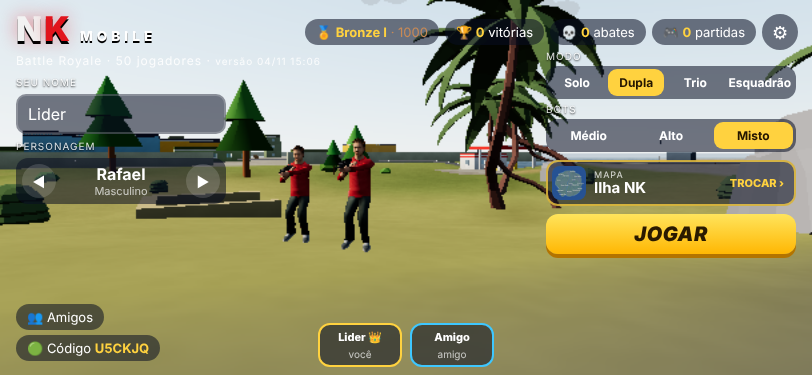
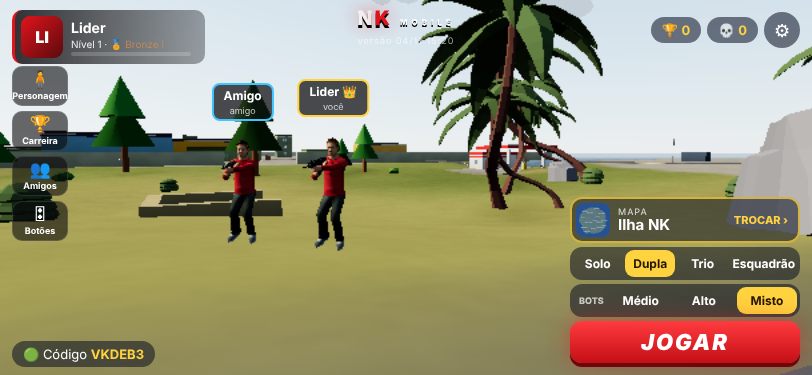
Lobby no formato battle royale: cartão do jogador com nível, esquadrão com nomes, JOGAR à direita, atalhos e painéis de Personagem e Carreira
Claude-Session: https://claude.ai/code/session_01SsXJjxVDH4xiDTBBbbNyde

diff --git a/nk-mobile/index.html b/nk-mobile/index.html
@@ -173,7 +173,10 @@ input,select{font:inherit;touch-action:auto;user-select:text;-webkit-user-select
 #menuP input[type=range]{flex:1;max-width:200px}
 #menuP select{background:#0f1430;color:#fff;border-radius:8px;padding:4px 8px;border:1px solid #445}
 .row{display:flex;gap:10px;justify-content:center;margin-top:8px;flex-wrap:wrap}
-#frP,#invP{display:flex;align-items:center;justify-content:center;z-index:35}
+#frP,#invP,#chrP,#carP{display:flex;align-items:center;justify-content:center;z-index:35}
+#chrP .box,#carP .box{background:#16161c;border:1px solid rgba(225,20,28,.35);border-radius:16px;padding:14px 18px;width:min(440px,92vw);display:flex;flex-direction:column;gap:8px;max-height:92vh;overflow:auto}
+#carP .box.car{width:min(600px,94vw)}
+#chrP input{background:#0f0f14;color:#fff;border:1px solid #444;border-radius:10px;padding:9px 10px}
 #frP .box,#invP .box{background:#1d2450;border-radius:16px;padding:14px 18px;width:min(440px,92vw);display:flex;flex-direction:column;gap:8px;max-height:92vh}
 #frP .box.wide{width:min(560px,94vw)}
 #frP input{flex:1;background:#0f1430;color:#fff;border:1px solid #445;border-radius:10px;padding:9px 10px;text-transform:uppercase}
@@ -240,6 +243,29 @@ input,select{font:inherit;touch-action:auto;user-select:text;-webkit-user-select
 #airI b{font-size:17px;color:#fff}#airI small{font-size:9px;letter-spacing:1px;color:var(--y);font-weight:800}
 #airI .ab{width:6px;background:rgba(255,255,255,.18);border-radius:3px;position:relative;overflow:hidden}#airI .ab i{position:absolute;bottom:0;left:0;right:0;background:linear-gradient(#7fd3ff,#3ec7ff)}
 #joy.lock{border-color:var(--y)}#joy.lock::after{content:'🔒 CORRENDO';position:absolute;top:-22px;left:50%;transform:translateX(-50%);font-size:10px;font-weight:800;color:var(--y);white-space:nowrap;text-shadow:0 1px 2px #000}
+
+/* ---------- lobby estilo battle royale (identidade NK: preto e vermelho) ---------- */
+.lb-card{position:absolute;top:10px;left:calc(12px + var(--sl));display:flex;align-items:center;gap:8px;background:linear-gradient(90deg,rgba(10,10,12,.82),rgba(10,10,12,.35));border-left:3px solid #e1141c;border-radius:10px;padding:6px 14px 6px 6px;cursor:pointer}
+.lb-av{width:42px;height:42px;border-radius:9px;background:linear-gradient(135deg,#e1141c,#5a0a0d);display:flex;align-items:center;justify-content:center;font-weight:1000;font-size:16px}
+.lb-ci{display:flex;flex-direction:column;gap:2px;min-width:120px}.lb-ci b{font-size:14px}.lb-ci small{font-size:10px;opacity:.9}
+.lb-xp{height:4px;background:rgba(255,255,255,.18);border-radius:2px;overflow:hidden}.lb-xp i{display:block;height:100%;background:var(--y)}
+.lb-logo{position:absolute;top:8px;left:50%;transform:translateX(-50%);text-align:center;pointer-events:none}.lb-logo .logo{font-size:26px;line-height:1}.lb-logo small{font-size:9px;opacity:.6;letter-spacing:1px}
+.lb-stats{position:absolute;top:12px;right:calc(12px + var(--sr));display:flex;gap:6px;align-items:center}
+.lb-side{position:absolute;left:calc(12px + var(--sl));top:76px;display:flex;flex-direction:column;gap:8px}
+.lb-ic{width:62px;display:flex;flex-direction:column;align-items:center;gap:2px;background:rgba(10,10,12,.6);border-radius:10px;padding:6px 2px;color:#fff;border:1px solid rgba(255,255,255,.12)}
+.lb-ic span{font-size:20px;line-height:1}.lb-ic small{font-size:9px;font-weight:700;white-space:nowrap}
+.lb-play{position:absolute;right:calc(12px + var(--sr));bottom:12px;width:250px;display:flex;flex-direction:column;gap:6px}
+.lb-play .btn.play{margin:0;background:linear-gradient(180deg,#ff3b3f,#c40f16);color:#fff;box-shadow:0 4px 0 #6d070b,0 0 22px rgba(225,20,28,.45);font-size:28px;letter-spacing:2px;order:9}
+.seg.sm button{padding:6px 2px;font-size:12px}.seg .segl{font-size:9px;font-weight:800;opacity:.7;align-self:center;padding:0 4px 0 6px}
+#lTags{position:absolute;inset:0;pointer-events:none}
+.ltag{position:absolute;transform:translate(-50%,-100%);display:flex;flex-direction:column;align-items:center;gap:2px;background:rgba(10,10,12,.72);border-radius:8px;padding:3px 10px;white-space:nowrap;pointer-events:auto}
+.ltag b{font-size:12px}.ltag small{font-size:9px;opacity:.75}.ltag.me{border:2px solid var(--y)}.ltag.fr{border:2px solid var(--b)}
+.ltag.bot{background:rgba(10,10,12,.5)}.ltag .inv{font-size:10px;color:#fff;font-weight:800;background:#e1141c;border-radius:6px;padding:3px 8px}
+.lb-bot{position:absolute;left:calc(12px + var(--sl));bottom:12px}
+.box.car{min-width:min(560px,92vw)}.car-r{font-size:13px;margin-bottom:8px}.car-g{display:grid;grid-template-columns:repeat(5,1fr);gap:6px}
+.car-g div{background:rgba(255,255,255,.07);border-radius:8px;padding:6px;font-size:10px;display:flex;flex-direction:column}.car-g b{font-size:16px}
+@media (max-height:420px){.lb-side{top:66px;gap:5px}.lb-ic{width:56px;padding:4px 2px}.lb-ic span{font-size:17px}.lb-play{width:230px;gap:4px}.lb-play .btn.play{font-size:22px;padding:8px}.lb-logo .logo{font-size:20px}}
+@media (max-height:330px){.lb-logo{display:none}.lb-side .lb-ic small{display:none}}
 </style>
 </head><body>
 <canvas id="cv"></canvas>
@@ -275,6 +301,8 @@ input,select{font:inherit;touch-action:auto;user-select:text;-webkit-user-select
 <div id="frP" class="panel hidden"></div>
 <div id="invP" class="panel hidden"></div>
 <div id="mapSelP" class="panel hidden"></div>
+<div id="chrP" class="panel hidden"></div>
+<div id="carP" class="panel hidden"></div>
 <div id="toast"></div>
 
 <script>/**
@@ -5530,7 +5558,7 @@ THREE.Sky = Sky;
 setTimeout(function(){
 // ================= núcleo: utilidades, estado global e configurações =================
 const T = THREE;
-const BUILD = '04/11 15:06'; // data da versão (preenchida pelo build.py)
+const BUILD = '04/11 15:20'; // data da versão (preenchida pelo build.py)
 // cores no espaço certo (sRGB -> linear) para usar curva de cor de cinema (ACES), estilo PUBG
 T.ColorManagement.legacyMode = false;
 // mapa escolhido no lobby (fica salvo; trocar de mapa recarrega a página, porque o mundo é montado uma vez só)
@@ -8756,7 +8784,7 @@ function lobbyActors() {
     if (i === 0) a.wp[0] = mkWeapon('M416'); else a.wp[0] = mkWeapon(pick(['AKM', 'SCAR-L', 'UMP45', 'KAR98K']));
     a.cur = 0; a.vest = i === 0 ? { lv: 2, dur: 1 } : null; a.helm = i === 0 ? { lv: 2, dur: 1 } : null;
     buildModel(a);
-    const side = [0, -1.3, 1.3, -2.6][i], back = [0, 0.9, 0.9, 1.8][i];
+    const row = { 1: [0], 2: [0, -1.7], 3: [0, -1.7, 1.7], 4: [0.85, -0.85, 2.55, -2.55] }[n], side = row[i], back = i ? 0.35 : 0; // fila lado a lado (nomes não se sobrepõem)
     // a fila fica de frente para a câmera
     const fx = Math.cos(LOB.yaw), fz = Math.sin(LOB.yaw), rx = -fz, rz = fx;
     a.x = LOB.x + rx * side + fx * back; a.z = LOB.z + rz * side + fz * back; a.y = groundH(a.x, a.z);
@@ -8767,53 +8795,90 @@ function lobbyActors() {
 function lobbyCamera(dt) {
   LOB.t += dt;
   const fx = Math.cos(LOB.yaw), fz = Math.sin(LOB.yaw), rx = -fz, rz = fx, d = 6.2;
-  camera.position.set(LOB.x - fx * d + rx * 1.3, LOB.y + 1.6, LOB.z - fz * d + rz * 1.3);
-  camera.lookAt(LOB.x + rx * 1.3 * 0.6, LOB.y + 1.05, LOB.z + rz * 0.6);
+  camera.position.set(LOB.x - fx * d + rx * 1.9, LOB.y + 1.6, LOB.z - fz * d + rz * 1.9); // fila um pouco à esquerda: o lado direito é do botão JOGAR
+  camera.lookAt(LOB.x + rx * 1.15, LOB.y + 1.05, LOB.z + rz * 1.15);
   if (Math.abs(camera.fov - 50) > 0.1) { camera.fov = 50; camera.updateProjectionMatrix(); }
   SKY.position.copy(camera.position); if (typeof SKY2 !== 'undefined' && SKY2) SKY2.position.copy(camera.position);
   humanFrame();
   for (const a of LOB.actors) { a.pitch = Math.sin(LOB.t * 0.8 + a.id) * 0.05 - 0.15; animateModel(a, dt, camera.position.x, camera.position.z, false); }
-  VM.visible = false;
+  VM.visible = false; camera.updateMatrixWorld(); lobbyTags();
 }
+// nível do jogador (cresce com partidas, abates e vitórias)
+function playerLevel() { const xp = (SET.matches || 0) * 100 + (SET.kills || 0) * 40 + (SET.wins || 0) * 300, lv = 1 + Math.floor(Math.sqrt(xp / 120)); const a = (lv - 1) ** 2 * 120, b = lv ** 2 * 120; return { lv, k: (xp - a) / (b - a) }; }
+const esc = t => String(t || '').replace(/[<>"&]/g, '');
+// formato de lobby de battle royale: jogador no topo, esquadrão no centro com nome em cima, JOGAR grande à direita, atalhos à esquerda
 function renderLobby() {
   const el = $('lobby');
-  const c = CHARS[SET.char];
-  const n = MODES.find(m => m[0] === G.mode)[2];
+  const n = MODES.find(m => m[0] === G.mode)[2], r = rankOf(SET.rp), L = playerLevel(), nm = esc(SET.name || 'Jogador');
+  const onl = Object.keys(ON.online).filter(k => ON.friends.some(f => f.id === k)).length;
   el.innerHTML = `
-  <div class="lgo"><div class="logo nk"><b>N</b><i>K</i><em>MOBILE</em></div><div class="sub">Battle Royale · 50 jogadores · <small>versão ${BUILD}</small></div></div>
-  <div class="lst">${(() => { const r = rankOf(SET.rp); return `<div class="pill" style="color:${r.c}">🏅 <b>${r.n}</b> · ${r.rp}</div>`; })()}<div class="pill">🏆 <b>${SET.wins}</b> vitórias</div><div class="pill">💀 <b>${SET.kills}</b> abates</div><div class="pill">🎮 <b>${SET.matches}</b> partidas</div><div class="hb2" id="lSet">⚙</div></div>
-  <div class="lleft">
-    <label class="lab">Seu nome</label><input id="lName" maxlength="14" value="${(SET.name || '').replace(/"/g, '')}">
-    <label class="lab">Personagem</label>
-    <div class="chsel"><button id="chP">◀</button><div><b>${c.n}</b><small>${c.f ? 'Feminino' : 'Masculino'}</small></div><button id="chN">▶</button></div>
+  <div class="lb-card" id="lChr"><div class="lb-av">${nm.slice(0, 2).toUpperCase()}</div><div class="lb-ci"><b>${nm}</b><small>Nível ${L.lv} · <span style="color:${r.c}">🏅 ${r.n}</span></small><div class="lb-xp"><i style="width:${Math.round(L.k * 100)}%"></i></div></div></div>
+  <div class="lb-logo"><div class="logo nk"><b>N</b><i>K</i><em>MOBILE</em></div><small>versão ${BUILD}</small></div>
+  <div class="lb-stats"><div class="pill">🏆 <b>${SET.wins}</b></div><div class="pill">💀 <b>${SET.kills}</b></div><div class="hb2" id="lSet">⚙</div></div>
+  <div class="lb-side">
+    <button class="lb-ic" id="lChr2"><span>🧍</span><small>Personagem</small></button>
+    <button class="lb-ic" id="lCar"><span>🏆</span><small>Carreira</small></button>
+    <button class="lb-ic" id="lFr"><span>👥</span><small>Amigos${onl ? ' · ' + onl : ''}</small></button>
+    <button class="lb-ic" id="lLay"><span>🎛</span><small>Botões</small></button>
   </div>
-  <div class="lright">
-    <label class="lab">Modo</label>
-    <div class="seg">${MODES.map(m => `<button data-m="${m[0]}" class="${G.mode === m[0] ? 'on' : ''}">${m[1]}</button>`).join('')}</div>
-    <label class="lab">Bots</label>
-    <div class="seg">${DIFFS.map(d => `<button data-d="${d[0]}" class="${G.diff === d[0] ? 'on' : ''}">${d[1]}</button>`).join('')}</div>
-    <button class="mapbtn" id="lMap" data-map="1"><img src="assets/maps/${MAPID}.jpg" alt=""><span><small>MAPA</small><b>${MAPS[MAPID].n}</b></span><i>TROCAR ›</i></button>
+  <div class="lb-play">
     <button class="btn play" id="lPlay">JOGAR</button>
-    <div class="hint">${MAPS[MAPID].d} · bots completam as 50 vagas${HUM.ready || HUM.failed ? "" : "<br>Carregando personagens realistas..."}</div>
+    <button class="mapbtn" id="lMap" data-map="1"><img src="assets/maps/${MAPID}.jpg" alt=""><span><small>MAPA</small><b>${MAPS[MAPID].n}</b></span><i>TROCAR ›</i></button>
+    <div class="seg sm">${MODES.map(m => `<button data-m="${m[0]}" class="${G.mode === m[0] ? 'on' : ''}">${m[1]}</button>`).join('')}</div>
+    <div class="seg sm"><span class="segl">BOTS</span>${DIFFS.map(d => `<button data-d="${d[0]}" class="${G.diff === d[0] ? 'on' : ''}">${d[1]}</button>`).join('')}</div>
+    ${HUM.ready || HUM.failed ? '' : '<div class="hint">Carregando personagens realistas...</div>'}
   </div>
-  <div class="squad">${Array.from({ length: n }, (_, i) => { const m = PARTY.pid ? PARTY.members[i] : (i === 0 ? { uid: 'me', name: SET.name } : null);
-    if (m) { const me = !PARTY.pid || m.uid === (ON.s && ON.s.uid); return `<div class="slot ${me ? 'me' : 'fr'}">${(m.name || 'Jogador').replace(/</g, '')}${m.uid === PARTY.lead ? ' 👑' : ''}<small>${me ? 'você' : 'amigo'}</small></div>`; }
-    return `<div class="slot"><span>🤖 Bot colega</span><button class="inv" data-inv="1">+ Convidar amigo</button></div>`; }).join('')}</div>
-  <div class="lon"><button class="pill" id="lFr">👥 Amigos${Object.keys(ON.online).filter(k => ON.friends.some(f => f.id === k)).length ? ' · ' + Object.keys(ON.online).filter(k => ON.friends.some(f => f.id === k)).length + ' online' : ''}</button><span class="pill">${ON.me ? '🟢 Código <b>' + ON.me.code + '</b>' : ON.err ? '⚪ ' + ON.err : '⚪ conectando...'}</span></div>`;
-  $('lName').oninput = e => { SET.name = e.target.value.trim().slice(0, 14) || 'Jogador'; saveSet(); };
-  $('lName').onchange = () => { renameOnline(); charChanged(); };
-  $('chP').onclick = () => { SET.char = (SET.char + CHARS.length - 1) % CHARS.length; saveSet(); charChanged(); lobbyActors(); renderLobby(); };
-  $('chN').onclick = () => { SET.char = (SET.char + 1) % CHARS.length; saveSet(); charChanged(); lobbyActors(); renderLobby(); };
+  <div id="lTags">${Array.from({ length: n }, (_, i) => { const m = PARTY.pid ? PARTY.members[i] : (i === 0 ? { uid: 'me', name: SET.name } : null);
+    if (m) { const me = !PARTY.pid || m.uid === (ON.s && ON.s.uid); return `<div class="ltag ${me ? 'me' : 'fr'}" id="tg${i}"><b>${esc(m.name || 'Jogador')}${m.uid === PARTY.lead ? ' 👑' : ''}</b><small>${me ? 'você' : 'amigo'}</small></div>`; }
+    return `<div class="ltag bot" id="tg${i}"><small>🤖 bot</small><button class="inv" data-inv="1">+ CONVIDAR</button></div>`; }).join('')}</div>
+  <div class="lb-bot"><span class="pill">${ON.me ? '🟢 Código <b>' + ON.me.code + '</b>' : ON.err ? '⚪ ' + esc(ON.err) : '⚪ conectando...'}</span></div>`;
+  const openChr = () => openCharPanel();
+  $('lChr').onclick = openChr; $('lChr2').onclick = openChr; $('lCar').onclick = openCareer; $('lLay').onclick = openLayout;
   el.querySelectorAll('[data-m]').forEach(b => b.onclick = () => { const sz = MODES.find(m => m[0] === b.dataset.m)[2]; if (PARTY.pid && PARTY.members.length > sz) { toast('O esquadrão tem ' + PARTY.members.length + ' pessoas: escolha um modo maior.', 2.5); return; } G.mode = SET.mode = b.dataset.m; saveSet(); lobbyActors(); renderLobby(); partyState(); });
-  el.querySelectorAll('[data-map]').forEach(b => b.onclick = openMapSel);
   el.querySelectorAll('[data-d]').forEach(b => b.onclick = () => { G.diff = SET.diff = b.dataset.d; saveSet(); renderLobby(); partyState(); });
+  el.querySelectorAll('[data-map]').forEach(b => b.onclick = openMapSel);
   el.querySelectorAll('[data-inv]').forEach(b => b.onclick = openFriends); $('lFr').onclick = openFriends;
   const guest = PARTY.pid && !partyLead();
   if (guest) { $('lPlay').textContent = 'AGUARDANDO O LÍDER'; $('lPlay').disabled = true; $('lPlay').classList.add('wait'); el.querySelectorAll('[data-m],[data-d],[data-map]').forEach(b => b.disabled = true); }
   $('lSet').onclick = () => { G.phase = 'lobbyMenu'; openMenu(); $('mQuit').style.display = 'none'; $('mBack').onclick = () => { closePanels(); G.phase = 'lobby'; }; };
   $('lPlay').onclick = play;
 }
-// trocar de mapa: o mundo é montado ao abrir o jogo, então recarrega (rápido, fica no cache)
+// nome em cima de cada personagem do esquadrão (acompanha a posição na tela)
+const _tg = new T.Vector3();
+function lobbyTags() {
+  for (let i = 0; i < LOB.actors.length; i++) {
+    const el = document.getElementById('tg' + i); if (!el) continue; const a = LOB.actors[i];
+    _tg.set(a.x, a.y + 2.15, a.z).project(camera);
+    if (_tg.z > 1) { el.style.display = 'none'; continue; }
+    el.style.display = ''; el.style.left = ((_tg.x * 0.5 + 0.5) * innerWidth) + 'px'; el.style.top = ((-_tg.y * 0.5 + 0.5) * innerHeight) + 'px';
+  }
+}
+// painel do personagem: nome e visual
+function openCharPanel() {
+  const el = $('chrP'); el.classList.remove('hidden');
+  const draw = () => { const c = CHARS[SET.char]; el.innerHTML = `<div class="box"><h3>Personagem</h3>
+    <label class="lab">Seu nome</label><input id="lName" maxlength="14" value="${esc(SET.name)}">
+    <label class="lab">Visual</label><div class="chsel"><button id="chP">◀</button><div><b>${c.n}</b><small>${c.f ? 'Feminino' : 'Masculino'}</small></div><button id="chN">▶</button></div>
+    <div class="row"><button class="btn" id="chOk">PRONTO</button></div></div>`;
+    $('lName').oninput = e => { SET.name = e.target.value.trim().slice(0, 14) || 'Jogador'; saveSet(); };
+    $('lName').onchange = () => { renameOnline(); charChanged(); };
+    $('chP').onclick = () => { SET.char = (SET.char + CHARS.length - 1) % CHARS.length; saveSet(); charChanged(); lobbyActors(); draw(); };
+    $('chN').onclick = () => { SET.char = (SET.char + 1) % CHARS.length; saveSet(); charChanged(); lobbyActors(); draw(); };
+    $('chOk').onclick = () => { el.classList.add('hidden'); renderLobby(); }; };
+  draw();
+}
+// painel de carreira: estatísticas de todas as partidas
+function openCareer() {
+  const el = $('carP'); el.classList.remove('hidden');
+  const m = SET.matches || 0, w = SET.wins || 0, k = SET.kills || 0, r = rankOf(SET.rp), L = playerLevel();
+  const pct = v => m ? Math.round(v / m * 100) + '%' : '—';
+  el.innerHTML = `<div class="box car"><h3>Carreira</h3><div class="car-r"><span style="color:${r.c}">🏅 ${r.n}</span> · ${r.rp} pontos · Nível ${L.lv}</div>
+    <div class="car-g"><div><b>${m}</b>partidas</div><div><b>${w}</b>vitórias</div><div><b>${pct(w)}</b>taxa de vitória</div><div><b>${SET.top10 || 0}</b>top 10</div>
+    <div><b>${k}</b>abates</div><div><b>${(k / Math.max(1, m - w)).toFixed(2)}</b>abates por morte</div><div><b>${m ? (k / m).toFixed(1) : '—'}</b>abates por partida</div><div><b>${SET.best ? '#' + SET.best : '—'}</b>melhor colocação</div>
+    <div><b>${Math.round(SET.dmg || 0)}</b>dano total</div><div><b>${m ? Math.round((SET.dmg || 0) / m) : '—'}</b>dano por partida</div></div>
+    <div class="row"><button class="btn" id="carX">FECHAR</button></div></div>`;
+  $('carX').onclick = () => el.classList.add('hidden');
+}
 // painel com a imagem das duas ilhas para escolher
 function openMapSel() {
   const el = $('mapSelP'); el.classList.remove('hidden');

diff --git a/nk-mobile/src/12_lobby.js b/nk-mobile/src/12_lobby.js
@@ -15,7 +15,7 @@ function lobbyActors() {
     if (i === 0) a.wp[0] = mkWeapon('M416'); else a.wp[0] = mkWeapon(pick(['AKM', 'SCAR-L', 'UMP45', 'KAR98K']));
     a.cur = 0; a.vest = i === 0 ? { lv: 2, dur: 1 } : null; a.helm = i === 0 ? { lv: 2, dur: 1 } : null;
     buildModel(a);
-    const side = [0, -1.3, 1.3, -2.6][i], back = [0, 0.9, 0.9, 1.8][i];
+    const row = { 1: [0], 2: [0, -1.7], 3: [0, -1.7, 1.7], 4: [0.85, -0.85, 2.55, -2.55] }[n], side = row[i], back = i ? 0.35 : 0; // fila lado a lado (nomes não se sobrepõem)
     // a fila fica de frente para a câmera
     const fx = Math.cos(LOB.yaw), fz = Math.sin(LOB.yaw), rx = -fz, rz = fx;
     a.x = LOB.x + rx * side + fx * back; a.z = LOB.z + rz * side + fz * back; a.y = groundH(a.x, a.z);
@@ -26,53 +26,90 @@ function lobbyActors() {
 function lobbyCamera(dt) {
   LOB.t += dt;
   const fx = Math.cos(LOB.yaw), fz = Math.sin(LOB.yaw), rx = -fz, rz = fx, d = 6.2;
-  camera.position.set(LOB.x - fx * d + rx * 1.3, LOB.y + 1.6, LOB.z - fz * d + rz * 1.3);
-  camera.lookAt(LOB.x + rx * 1.3 * 0.6, LOB.y + 1.05, LOB.z + rz * 0.6);
+  camera.position.set(LOB.x - fx * d + rx * 1.9, LOB.y + 1.6, LOB.z - fz * d + rz * 1.9); // fila um pouco à esquerda: o lado direito é do botão JOGAR
+  camera.lookAt(LOB.x + rx * 1.15, LOB.y + 1.05, LOB.z + rz * 1.15);
   if (Math.abs(camera.fov - 50) > 0.1) { camera.fov = 50; camera.updateProjectionMatrix(); }
   SKY.position.copy(camera.position); if (typeof SKY2 !== 'undefined' && SKY2) SKY2.position.copy(camera.position);
   humanFrame();
   for (const a of LOB.actors) { a.pitch = Math.sin(LOB.t * 0.8 + a.id) * 0.05 - 0.15; animateModel(a, dt, camera.position.x, camera.position.z, false); }
-  VM.visible = false;
+  VM.visible = false; camera.updateMatrixWorld(); lobbyTags();
 }
+// nível do jogador (cresce com partidas, abates e vitórias)
+function playerLevel() { const xp = (SET.matches || 0) * 100 + (SET.kills || 0) * 40 + (SET.wins || 0) * 300, lv = 1 + Math.floor(Math.sqrt(xp / 120)); const a = (lv - 1) ** 2 * 120, b = lv ** 2 * 120; return { lv, k: (xp - a) / (b - a) }; }
+const esc = t => String(t || '').replace(/[<>"&]/g, '');
+// formato de lobby de battle royale: jogador no topo, esquadrão no centro com nome em cima, JOGAR grande à direita, atalhos à esquerda
 function renderLobby() {
   const el = $('lobby');
-  const c = CHARS[SET.char];
-  const n = MODES.find(m => m[0] === G.mode)[2];
+  const n = MODES.find(m => m[0] === G.mode)[2], r = rankOf(SET.rp), L = playerLevel(), nm = esc(SET.name || 'Jogador');
+  const onl = Object.keys(ON.online).filter(k => ON.friends.some(f => f.id === k)).length;
   el.innerHTML = `
-  <div class="lgo"><div class="logo nk"><b>N</b><i>K</i><em>MOBILE</em></div><div class="sub">Battle Royale · 50 jogadores · <small>versão ${BUILD}</small></div></div>
-  <div class="lst">${(() => { const r = rankOf(SET.rp); return `<div class="pill" style="color:${r.c}">🏅 <b>${r.n}</b> · ${r.rp}</div>`; })()}<div class="pill">🏆 <b>${SET.wins}</b> vitórias</div><div class="pill">💀 <b>${SET.kills}</b> abates</div><div class="pill">🎮 <b>${SET.matches}</b> partidas</div><div class="hb2" id="lSet">⚙</div></div>
-  <div class="lleft">
-    <label class="lab">Seu nome</label><input id="lName" maxlength="14" value="${(SET.name || '').replace(/"/g, '')}">
-    <label class="lab">Personagem</label>
-    <div class="chsel"><button id="chP">◀</button><div><b>${c.n}</b><small>${c.f ? 'Feminino' : 'Masculino'}</small></div><button id="chN">▶</button></div>
+  <div class="lb-card" id="lChr"><div class="lb-av">${nm.slice(0, 2).toUpperCase()}</div><div class="lb-ci"><b>${nm}</b><small>Nível ${L.lv} · <span style="color:${r.c}">🏅 ${r.n}</span></small><div class="lb-xp"><i style="width:${Math.round(L.k * 100)}%"></i></div></div></div>
+  <div class="lb-logo"><div class="logo nk"><b>N</b><i>K</i><em>MOBILE</em></div><small>versão ${BUILD}</small></div>
+  <div class="lb-stats"><div class="pill">🏆 <b>${SET.wins}</b></div><div class="pill">💀 <b>${SET.kills}</b></div><div class="hb2" id="lSet">⚙</div></div>
+  <div class="lb-side">
+    <button class="lb-ic" id="lChr2"><span>🧍</span><small>Personagem</small></button>
+    <button class="lb-ic" id="lCar"><span>🏆</span><small>Carreira</small></button>
+    <button class="lb-ic" id="lFr"><span>👥</span><small>Amigos${onl ? ' · ' + onl : ''}</small></button>
+    <button class="lb-ic" id="lLay"><span>🎛</span><small>Botões</small></button>
   </div>
-  <div class="lright">
-    <label class="lab">Modo</label>
-    <div class="seg">${MODES.map(m => `<button data-m="${m[0]}" class="${G.mode === m[0] ? 'on' : ''}">${m[1]}</button>`).join('')}</div>
-    <label class="lab">Bots</label>
-    <div class="seg">${DIFFS.map(d => `<button data-d="${d[0]}" class="${G.diff === d[0] ? 'on' : ''}">${d[1]}</button>`).join('')}</div>
-    <button class="mapbtn" id="lMap" data-map="1"><img src="assets/maps/${MAPID}.jpg" alt=""><span><small>MAPA</small><b>${MAPS[MAPID].n}</b></span><i>TROCAR ›</i></button>
+  <div class="lb-play">
     <button class="btn play" id="lPlay">JOGAR</button>
-    <div class="hint">${MAPS[MAPID].d} · bots completam as 50 vagas${HUM.ready || HUM.failed ? "" : "<br>Carregando personagens realistas..."}</div>
+    <button class="mapbtn" id="lMap" data-map="1"><img src="assets/maps/${MAPID}.jpg" alt=""><span><small>MAPA</small><b>${MAPS[MAPID].n}</b></span><i>TROCAR ›</i></button>
+    <div class="seg sm">${MODES.map(m => `<button data-m="${m[0]}" class="${G.mode === m[0] ? 'on' : ''}">${m[1]}</button>`).join('')}</div>
+    <div class="seg sm"><span class="segl">BOTS</span>${DIFFS.map(d => `<button data-d="${d[0]}" class="${G.diff === d[0] ? 'on' : ''}">${d[1]}</button>`).join('')}</div>
+    ${HUM.ready || HUM.failed ? '' : '<div class="hint">Carregando personagens realistas...</div>'}
   </div>
-  <div class="squad">${Array.from({ length: n }, (_, i) => { const m = PARTY.pid ? PARTY.members[i] : (i === 0 ? { uid: 'me', name: SET.name } : null);
-    if (m) { const me = !PARTY.pid || m.uid === (ON.s && ON.s.uid); return `<div class="slot ${me ? 'me' : 'fr'}">${(m.name || 'Jogador').replace(/</g, '')}${m.uid === PARTY.lead ? ' 👑' : ''}<small>${me ? 'você' : 'amigo'}</small></div>`; }
-    return `<div class="slot"><span>🤖 Bot colega</span><button class="inv" data-inv="1">+ Convidar amigo</button></div>`; }).join('')}</div>
-  <div class="lon"><button class="pill" id="lFr">👥 Amigos${Object.keys(ON.online).filter(k => ON.friends.some(f => f.id === k)).length ? ' · ' + Object.keys(ON.online).filter(k => ON.friends.some(f => f.id === k)).length + ' online' : ''}</button><span class="pill">${ON.me ? '🟢 Código <b>' + ON.me.code + '</b>' : ON.err ? '⚪ ' + ON.err : '⚪ conectando...'}</span></div>`;
-  $('lName').oninput = e => { SET.name = e.target.value.trim().slice(0, 14) || 'Jogador'; saveSet(); };
-  $('lName').onchange = () => { renameOnline(); charChanged(); };
-  $('chP').onclick = () => { SET.char = (SET.char + CHARS.length - 1) % CHARS.length; saveSet(); charChanged(); lobbyActors(); renderLobby(); };
-  $('chN').onclick = () => { SET.char = (SET.char + 1) % CHARS.length; saveSet(); charChanged(); lobbyActors(); renderLobby(); };
+  <div id="lTags">${Array.from({ length: n }, (_, i) => { const m = PARTY.pid ? PARTY.members[i] : (i === 0 ? { uid: 'me', name: SET.name } : null);
+    if (m) { const me = !PARTY.pid || m.uid === (ON.s && ON.s.uid); return `<div class="ltag ${me ? 'me' : 'fr'}" id="tg${i}"><b>${esc(m.name || 'Jogador')}${m.uid === PARTY.lead ? ' 👑' : ''}</b><small>${me ? 'você' : 'amigo'}</small></div>`; }
+    return `<div class="ltag bot" id="tg${i}"><small>🤖 bot</small><button class="inv" data-inv="1">+ CONVIDAR</button></div>`; }).join('')}</div>
+  <div class="lb-bot"><span class="pill">${ON.me ? '🟢 Código <b>' + ON.me.code + '</b>' : ON.err ? '⚪ ' + esc(ON.err) : '⚪ conectando...'}</span></div>`;
+  const openChr = () => openCharPanel();
+  $('lChr').onclick = openChr; $('lChr2').onclick = openChr; $('lCar').onclick = openCareer; $('lLay').onclick = openLayout;
   el.querySelectorAll('[data-m]').forEach(b => b.onclick = () => { const sz = MODES.find(m => m[0] === b.dataset.m)[2]; if (PARTY.pid && PARTY.members.length > sz) { toast('O esquadrão tem ' + PARTY.members.length + ' pessoas: escolha um modo maior.', 2.5); return; } G.mode = SET.mode = b.dataset.m; saveSet(); lobbyActors(); renderLobby(); partyState(); });
-  el.querySelectorAll('[data-map]').forEach(b => b.onclick = openMapSel);
   el.querySelectorAll('[data-d]').forEach(b => b.onclick = () => { G.diff = SET.diff = b.dataset.d; saveSet(); renderLobby(); partyState(); });
+  el.querySelectorAll('[data-map]').forEach(b => b.onclick = openMapSel);
   el.querySelectorAll('[data-inv]').forEach(b => b.onclick = openFriends); $('lFr').onclick = openFriends;
   const guest = PARTY.pid && !partyLead();
   if (guest) { $('lPlay').textContent = 'AGUARDANDO O LÍDER'; $('lPlay').disabled = true; $('lPlay').classList.add('wait'); el.querySelectorAll('[data-m],[data-d],[data-map]').forEach(b => b.disabled = true); }
   $('lSet').onclick = () => { G.phase = 'lobbyMenu'; openMenu(); $('mQuit').style.display = 'none'; $('mBack').onclick = () => { closePanels(); G.phase = 'lobby'; }; };
   $('lPlay').onclick = play;
 }
-// trocar de mapa: o mundo é montado ao abrir o jogo, então recarrega (rápido, fica no cache)
+// nome em cima de cada personagem do esquadrão (acompanha a posição na tela)
+const _tg = new T.Vector3();
+function lobbyTags() {
+  for (let i = 0; i < LOB.actors.length; i++) {
+    const el = document.getElementById('tg' + i); if (!el) continue; const a = LOB.actors[i];
+    _tg.set(a.x, a.y + 2.15, a.z).project(camera);
+    if (_tg.z > 1) { el.style.display = 'none'; continue; }
+    el.style.display = ''; el.style.left = ((_tg.x * 0.5 + 0.5) * innerWidth) + 'px'; el.style.top = ((-_tg.y * 0.5 + 0.5) * innerHeight) + 'px';
+  }
+}
+// painel do personagem: nome e visual
+function openCharPanel() {
+  const el = $('chrP'); el.classList.remove('hidden');
+  const draw = () => { const c = CHARS[SET.char]; el.innerHTML = `<div class="box"><h3>Personagem</h3>
+    <label class="lab">Seu nome</label><input id="lName" maxlength="14" value="${esc(SET.name)}">
+    <label class="lab">Visual</label><div class="chsel"><button id="chP">◀</button><div><b>${c.n}</b><small>${c.f ? 'Feminino' : 'Masculino'}</small></div><button id="chN">▶</button></div>
+    <div class="row"><button class="btn" id="chOk">PRONTO</button></div></div>`;
+    $('lName').oninput = e => { SET.name = e.target.value.trim().slice(0, 14) || 'Jogador'; saveSet(); };
+    $('lName').onchange = () => { renameOnline(); charChanged(); };
+    $('chP').onclick = () => { SET.char = (SET.char + CHARS.length - 1) % CHARS.length; saveSet(); charChanged(); lobbyActors(); draw(); };
+    $('chN').onclick = () => { SET.char = (SET.char + 1) % CHARS.length; saveSet(); charChanged(); lobbyActors(); draw(); };
+    $('chOk').onclick = () => { el.classList.add('hidden'); renderLobby(); }; };
+  draw();
+}
+// painel de carreira: estatísticas de todas as partidas
+function openCareer() {
+  const el = $('carP'); el.classList.remove('hidden');
+  const m = SET.matches || 0, w = SET.wins || 0, k = SET.kills || 0, r = rankOf(SET.rp), L = playerLevel();
+  const pct = v => m ? Math.round(v / m * 100) + '%' : '—';
+  el.innerHTML = `<div class="box car"><h3>Carreira</h3><div class="car-r"><span style="color:${r.c}">🏅 ${r.n}</span> · ${r.rp} pontos · Nível ${L.lv}</div>
+    <div class="car-g"><div><b>${m}</b>partidas</div><div><b>${w}</b>vitórias</div><div><b>${pct(w)}</b>taxa de vitória</div><div><b>${SET.top10 || 0}</b>top 10</div>
+    <div><b>${k}</b>abates</div><div><b>${(k / Math.max(1, m - w)).toFixed(2)}</b>abates por morte</div><div><b>${m ? (k / m).toFixed(1) : '—'}</b>abates por partida</div><div><b>${SET.best ? '#' + SET.best : '—'}</b>melhor colocação</div>
+    <div><b>${Math.round(SET.dmg || 0)}</b>dano total</div><div><b>${m ? Math.round((SET.dmg || 0) / m) : '—'}</b>dano por partida</div></div>
+    <div class="row"><button class="btn" id="carX">FECHAR</button></div></div>`;
+  $('carX').onclick = () => el.classList.add('hidden');
+}
 // painel com a imagem das duas ilhas para escolher
 function openMapSel() {
   const el = $('mapSelP'); el.classList.remove('hidden');

diff --git a/nk-mobile/src/head.html b/nk-mobile/src/head.html
@@ -171,7 +171,10 @@ input,select{font:inherit;touch-action:auto;user-select:text;-webkit-user-select
 #menuP input[type=range]{flex:1;max-width:200px}
 #menuP select{background:#0f1430;color:#fff;border-radius:8px;padding:4px 8px;border:1px solid #445}
 .row{display:flex;gap:10px;justify-content:center;margin-top:8px;flex-wrap:wrap}
-#frP,#invP{display:flex;align-items:center;justify-content:center;z-index:35}
+#frP,#invP,#chrP,#carP{display:flex;align-items:center;justify-content:center;z-index:35}
+#chrP .box,#carP .box{background:#16161c;border:1px solid rgba(225,20,28,.35);border-radius:16px;padding:14px 18px;width:min(440px,92vw);display:flex;flex-direction:column;gap:8px;max-height:92vh;overflow:auto}
+#carP .box.car{width:min(600px,94vw)}
+#chrP input{background:#0f0f14;color:#fff;border:1px solid #444;border-radius:10px;padding:9px 10px}
 #frP .box,#invP .box{background:#1d2450;border-radius:16px;padding:14px 18px;width:min(440px,92vw);display:flex;flex-direction:column;gap:8px;max-height:92vh}
 #frP .box.wide{width:min(560px,94vw)}
 #frP input{flex:1;background:#0f1430;color:#fff;border:1px solid #445;border-radius:10px;padding:9px 10px;text-transform:uppercase}
@@ -238,4 +241,27 @@ input,select{font:inherit;touch-action:auto;user-select:text;-webkit-user-select
 #airI b{font-size:17px;color:#fff}#airI small{font-size:9px;letter-spacing:1px;color:var(--y);font-weight:800}
 #airI .ab{width:6px;background:rgba(255,255,255,.18);border-radius:3px;position:relative;overflow:hidden}#airI .ab i{position:absolute;bottom:0;left:0;right:0;background:linear-gradient(#7fd3ff,#3ec7ff)}
 #joy.lock{border-color:var(--y)}#joy.lock::after{content:'🔒 CORRENDO';position:absolute;top:-22px;left:50%;transform:translateX(-50%);font-size:10px;font-weight:800;color:var(--y);white-space:nowrap;text-shadow:0 1px 2px #000}
+
+/* ---------- lobby estilo battle royale (identidade NK: preto e vermelho) ---------- */
+.lb-card{position:absolute;top:10px;left:calc(12px + var(--sl));display:flex;align-items:center;gap:8px;background:linear-gradient(90deg,rgba(10,10,12,.82),rgba(10,10,12,.35));border-left:3px solid #e1141c;border-radius:10px;padding:6px 14px 6px 6px;cursor:pointer}
+.lb-av{width:42px;height:42px;border-radius:9px;background:linear-gradient(135deg,#e1141c,#5a0a0d);display:flex;align-items:center;justify-content:center;font-weight:1000;font-size:16px}
+.lb-ci{display:flex;flex-direction:column;gap:2px;min-width:120px}.lb-ci b{font-size:14px}.lb-ci small{font-size:10px;opacity:.9}
+.lb-xp{height:4px;background:rgba(255,255,255,.18);border-radius:2px;overflow:hidden}.lb-xp i{display:block;height:100%;background:var(--y)}
+.lb-logo{position:absolute;top:8px;left:50%;transform:translateX(-50%);text-align:center;pointer-events:none}.lb-logo .logo{font-size:26px;line-height:1}.lb-logo small{font-size:9px;opacity:.6;letter-spacing:1px}
+.lb-stats{position:absolute;top:12px;right:calc(12px + var(--sr));display:flex;gap:6px;align-items:center}
+.lb-side{position:absolute;left:calc(12px + var(--sl));top:76px;display:flex;flex-direction:column;gap:8px}
+.lb-ic{width:62px;display:flex;flex-direction:column;align-items:center;gap:2px;background:rgba(10,10,12,.6);border-radius:10px;padding:6px 2px;color:#fff;border:1px solid rgba(255,255,255,.12)}
+.lb-ic span{font-size:20px;line-height:1}.lb-ic small{font-size:9px;font-weight:700;white-space:nowrap}
+.lb-play{position:absolute;right:calc(12px + var(--sr));bottom:12px;width:250px;display:flex;flex-direction:column;gap:6px}
+.lb-play .btn.play{margin:0;background:linear-gradient(180deg,#ff3b3f,#c40f16);color:#fff;box-shadow:0 4px 0 #6d070b,0 0 22px rgba(225,20,28,.45);font-size:28px;letter-spacing:2px;order:9}
+.seg.sm button{padding:6px 2px;font-size:12px}.seg .segl{font-size:9px;font-weight:800;opacity:.7;align-self:center;padding:0 4px 0 6px}
+#lTags{position:absolute;inset:0;pointer-events:none}
+.ltag{position:absolute;transform:translate(-50%,-100%);display:flex;flex-direction:column;align-items:center;gap:2px;background:rgba(10,10,12,.72);border-radius:8px;padding:3px 10px;white-space:nowrap;pointer-events:auto}
+.ltag b{font-size:12px}.ltag small{font-size:9px;opacity:.75}.ltag.me{border:2px solid var(--y)}.ltag.fr{border:2px solid var(--b)}
+.ltag.bot{background:rgba(10,10,12,.5)}.ltag .inv{font-size:10px;color:#fff;font-weight:800;background:#e1141c;border-radius:6px;padding:3px 8px}
+.lb-bot{position:absolute;left:calc(12px + var(--sl));bottom:12px}
+.box.car{min-width:min(560px,92vw)}.car-r{font-size:13px;margin-bottom:8px}.car-g{display:grid;grid-template-columns:repeat(5,1fr);gap:6px}
+.car-g div{background:rgba(255,255,255,.07);border-radius:8px;padding:6px;font-size:10px;display:flex;flex-direction:column}.car-g b{font-size:16px}
+@media (max-height:420px){.lb-side{top:66px;gap:5px}.lb-ic{width:56px;padding:4px 2px}.lb-ic span{font-size:17px}.lb-play{width:230px;gap:4px}.lb-play .btn.play{font-size:22px;padding:8px}.lb-logo .logo{font-size:20px}}
+@media (max-height:330px){.lb-logo{display:none}.lb-side .lb-ic small{display:none}}
 </style>

diff --git a/nk-mobile/sw.js b/nk-mobile/sw.js
@@ -1,6 +1,6 @@
 // NK Mobile: funciona sem internet depois da primeira visita (gerado pelo build.py).
 // Página: rede primeiro (pega atualização), cache se estiver sem internet. Modelos e ícones: cache primeiro.
-const C = 'nkmobile-8003bdc64a';
+const C = 'nkmobile-80b648a6f6';
 const PRE = ["./", "index.html", "manifest.webmanifest", "brand/icon-1024.png", "brand/icon-180.png", "brand/icon-192.png", "brand/icon-32.png", "brand/icon-512.png", "brand/icon-maskable-512.png", "assets/CREDITS.md", "assets/plane.glb", "assets/chars/LICENSE-Rocketbox.txt", "assets/chars/anims.glb", "assets/chars/f_casual.glb", "assets/chars/f_jacket.glb", "assets/chars/f_police.glb", "assets/chars/f_soldier1.glb", "assets/chars/f_soldier2.glb", "assets/chars/m_casual.glb", "assets/chars/m_hoodie.glb", "assets/chars/m_police.glb", "assets/chars/m_soldier1.glb", "assets/chars/m_soldier2.glb", "assets/guns/akm.glb", "assets/guns/m16a2.glb", "assets/guns/m625.glb", "assets/guns/mosin.glb", "assets/guns/p226.glb", "assets/maps/bal.jpg", "assets/maps/nk.jpg", "assets/nature/BirchTree_2.glb", "assets/nature/Bush_1.glb", "assets/nature/Bush_2.glb", "assets/nature/CommonTree_3.glb", "assets/nature/CommonTree_4.glb", "assets/nature/PalmTree_2.glb", "assets/nature/PineTree_2.glb", "assets/nature/PineTree_4.glb", "assets/nature/Rock_1.glb", "assets/nature/Rock_2.glb", "assets/nature/Rock_3.glb", "assets/nature/Rock_4.glb", "assets/nature/Rock_5.glb", "assets/nature/Rock_Moss_1.glb", "assets/nature/Rock_Moss_2.glb", "assets/tex/terrain.jpg", "assets/tex/walls.jpg"];
 self.addEventListener('install', e => { e.waitUntil(caches.open(C).then(c => c.addAll(PRE)).then(() => self.skipWaiting())); });
 self.addEventListener('activate', e => { e.waitUntil(caches.keys().then(ks => Promise.all(ks.filter(k => (k.startsWith('nkmobile-') || k.startsWith('ilhazero-')) && k !== C).map(k => caches.delete(k)))).then(() => self.clients.claim())); });

diff --git a/nk-mobile/src/body.html b/nk-mobile/src/body.html
@@ -31,4 +31,6 @@
 <div id="frP" class="panel hidden"></div>
 <div id="invP" class="panel hidden"></div>
 <div id="mapSelP" class="panel hidden"></div>
+<div id="chrP" class="panel hidden"></div>
+<div id="carP" class="panel hidden"></div>
 <div id="toast"></div>

diff --git a/nk-mobile/README.md b/nk-mobile/README.md
@@ -185,3 +185,7 @@ Escolha no lobby (**Mapa: Ilha NK / Balneário**). Mapa original do NK Mobile, d
 - Câmera com leve inclinação ao andar de lado e virar, e respiração sutil parado
 - Arma com peso: atrasa ao andar, frear e pular; abaixa e sobe ao trocar de arma; fica mais baixa agachado/deitado
 - Recuo visual diferente por tipo de arma (pistola, submetralhadora, fuzil, DMR, sniper, escopeta) e ciclo do ferrolho/ação depois do tiro
+
+## Lobby novo (atualização)
+- Formato de lobby de battle royale com a identidade do NK Mobile (preto e vermelho): cartão do jogador no topo (avatar, nome, **nível** e ranking), esquadrão em fila no centro com o **nome em cima de cada um** ("+ CONVIDAR" no lugar dos bots), **JOGAR** grande à direita com mapa, modo e bots logo acima, atalhos à esquerda
+- Painéis novos: **Personagem** (nome e visual) e **Carreira** (partidas, vitórias, taxa de vitória, top 10, abates, abates por morte e por partida, melhor colocação, dano)
